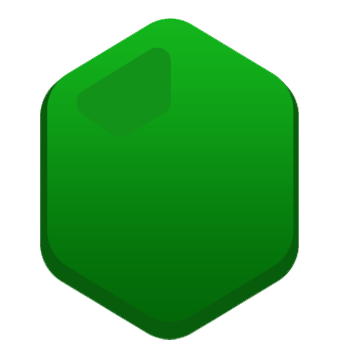
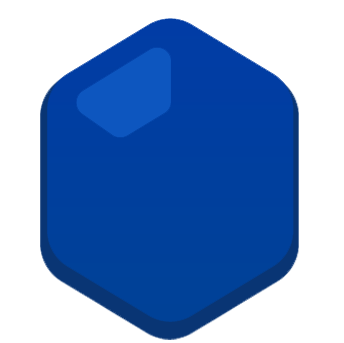
fix(rewards): fix claim btn & restyle complete lesson page

diff --git a/client/src/styles/FingoLessonComplete.styles.css b/client/src/styles/FingoLessonComplete.styles.css
@@ -1,36 +1,46 @@
 .FingoLessonComplete {
-    border: 2px solid rgb(109 109 109 / 10%);
+    /* border: 2px solid rgb(109 109 109 / 10%); */
     margin-bottom: 1rem;
     border-radius: 2rem;
     max-width: 90%;
     width: 370px;
     margin: 0 auto;
-    background: rgb(3, 143, 40);
-    background: -moz-radial-gradient(
-        circle,
-        rgba(3, 143, 40, 1) 0%,
-        rgba(2, 152, 50, 1) 35%,
-        rgba(48, 235, 0, 1) 100%
-    );
-    background: -webkit-radial-gradient(
-        circle,
-        rgba(3, 143, 40, 1) 0%,
-        rgba(2, 152, 50, 1) 35%,
-        rgba(48, 235, 0, 1) 100%
-    );
-    background: radial-gradient(
-        circle,
-        rgba(3, 143, 40, 1) 0%,
-        rgba(2, 152, 50, 1) 35%,
-        rgba(48, 235, 0, 1) 100%
-    );
-    filter: progid:DXImageTransform.Microsoft.gradient(startColorstr="#038f28",endColorstr="#30eb00",GradientType=1);
-    color: #fbfbfb;
-    opacity: 0;
+    position: relative;
+    background-size: cover;
+    background-position: bottom left;
+    background-repeat: no-repeat;
+    color: #fff;
     animation:
         fadeIn 2s forwards 1s,
         zoomIn 1s 1s forwards,
         zoomInOut 1s 1s forwards;
+}
+
+.LessonCompleteOverlay {
+    position: absolute;
+    top: 0;
+    left: 0;
+    width: 100%;
+    height: 100%;
+    border-radius: 2rem;
+    /* background: rgb(0 0 0 / 35%); */
+    background: rgb(0, 69, 255);
+    background: -moz-linear-gradient(
+        180deg,
+        rgb(16 52 147 / 81%) 0%,
+        rgba(37, 100, 255, 0.35) 100%
+    );
+    background: -webkit-linear-gradient(
+        180deg,
+        rgb(16 52 147 / 81%) 0%,
+        rgba(37, 100, 255, 0.35) 100%
+    );
+    background: linear-gradient(
+        180deg,
+        rgb(16 52 147 / 81%) 0%,
+        rgba(37, 100, 255, 0.35) 100%
+    );
+    filter: progid:DXImageTransform.Microsoft.gradient(startColorstr="#0045ff",endColorstr="#2564ff",GradientType=1);
 }
 
 .FingoLessonCompleteContent {
@@ -39,6 +49,7 @@
     align-items: center;
     justify-content: center;
     padding: 0 2rem 2rem 2rem;
+    position: relative;
 }
 
 .FingoLessonCompleteContent h2 {

diff --git a/client/src/components/FingoCardDailyXP.js b/client/src/components/FingoCardDailyXP.js
@@ -24,7 +24,7 @@ const FingoCardDailyXP = () => {
     const dispatch = useDispatch()
     const { dailyXP } = useApp()
     const { openModalClaimReward, reward_setOpenModalClaimReward } = useReward()
-    const { newUser, user } = useAuth()
+    const { newUser, user, isAuthenticated } = useAuth()
 
     const getDailyXp = useMemo(() => {
         if (user) {
@@ -106,11 +106,17 @@ const FingoCardDailyXP = () => {
             />
             <div className='FingoCardDailyXPHeader'>
                 <h2 className='title mb-0'>Daily Quests</h2>
-                {getDailyXp > 0 && !user.claimedGemsDailyQuest && (
-                    <a href='#' onClick={onClickClaimReward} alt='claim reward'>
-                        Claim Reward
-                    </a>
-                )}
+                {isAuthenticated &&
+                    getDailyXp >= 60 &&
+                    !user?.claimedGemsDailyQuest && (
+                        <a
+                            href='#'
+                            onClick={onClickClaimReward}
+                            alt='claim reward'
+                        >
+                            Claim Reward
+                        </a>
+                    )}
             </div>
             <div className='FingoCardDailyXPInner'>
                 <div className='left'>

diff --git a/client/src/routes/ScorePage.js b/client/src/routes/ScorePage.js
@@ -17,6 +17,7 @@ import 'src/styles/FingoLessonComplete.styles.css'
 import { FingoButton } from 'src/components/core'
 import StartFilled from 'src/assets/images/diamond-filled.png'
 import StartFilledFade from 'src/assets/images/diamond-faded.png'
+import BG from 'src/assets/images/8270289.jpg'
 import { ReactComponent as DiamondSvg } from 'src/assets/svg/diamond.svg'
 import 'src/styles/ScorePage.styles.css'
 
@@ -282,7 +283,8 @@ const ScorePage = () => {
                                 </Card.Body>
                             </>
                         ) : (
-                            <div className='FingoLessonComplete'>
+                            <div className='FingoLessonComplete' style={{backgroundImage: `url('${BG}')`}}>
+                                <div className="LessonCompleteOverlay" />
                                 <div className='confetti-container'>
                                     <Confetti
                                         active={celebrate}

diff --git a/client/src/components/FingoFooter.js b/client/src/components/FingoFooter.js
@@ -63,7 +63,7 @@ const FingoFooter = () => {
 
     const renderBadge = useCallback(
         menuName => {
-            if (menuName === 'daily-quest' && user?.xp?.daily > 60) {
+            if (menuName === 'daily-quest' && user?.xp?.daily >= 60) {
                 return <div className='FingoFooterBadge'></div>
             }
             return null

diff --git a/client/src/styles/ScorePage.styles.css b/client/src/styles/ScorePage.styles.css
@@ -1,5 +1,5 @@
 .ScorePageDiamondText svg {
     width: 26px;
     height: auto;
-    margin-top: -5px;
+    margin-top: -7px;
 }
